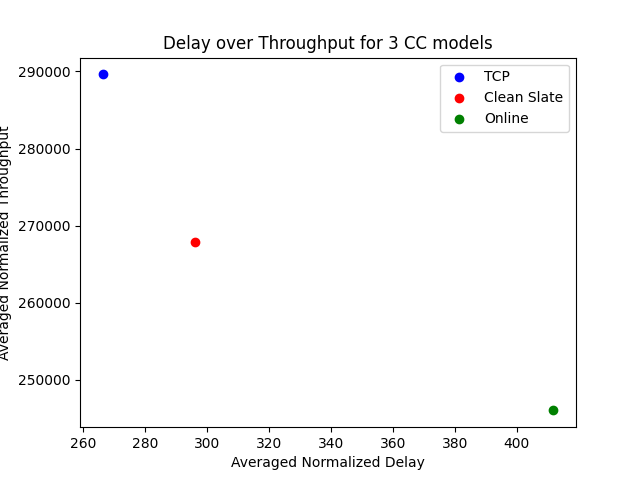
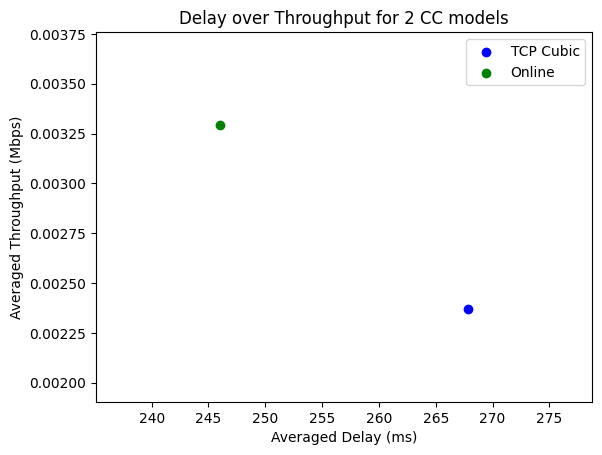
final touches

diff --git a/continuous_action_space/graph_throughputs.py b/continuous_action_space/graph_throughputs.py
@@ -21,30 +21,40 @@ with open('./data/online/rtts.pickle', 'rb') as fh:
 	online_rtts = pkl.load(fh)
 
 def avg_jagged_2d_array(arr):
-	summ = 0
-	lenn = 0
+	summ = 0.0
+	lenn = 0.0
 	for lst in arr:
 		summ += sum(lst)
 		lenn += len(lst)
 	avg = summ / lenn
 	return avg
 
-tcp_throughputs_avg = avg_jagged_2d_array(tcp_throughputs)
-tcp_rtts_avg = avg_jagged_2d_array(tcp_rtts)
+tcp_throughputs_avg = avg_jagged_2d_array(tcp_throughputs) / 125000
+tcp_rtts_avg = avg_jagged_2d_array(tcp_rtts) / 1000
 
-clean_slate_throughputs_avg = avg_jagged_2d_array(clean_slate_throughputs)
-clean_slate_rtts_avg = avg_jagged_2d_array(clean_slate_rtts)
+clean_slate_throughputs_avg = avg_jagged_2d_array(clean_slate_throughputs) / 125000
+clean_slate_rtts_avg = avg_jagged_2d_array(clean_slate_rtts) / 1000
 
-online_throughputs_avg = avg_jagged_2d_array(online_throughputs)
-online_rtts_avg = avg_jagged_2d_array(online_rtts)
+online_throughputs_avg = avg_jagged_2d_array(online_throughputs) / 125000
+online_rtts_avg = avg_jagged_2d_array(online_rtts) / 1000
+
+# tcp_throughputs_avg = np.average(tcp_throughputs[0])# / 125000
+# tcp_rtts_avg = np.average(tcp_rtts[0]) / 1000
+#
+# clean_slate_throughputs_avg = avg_jagged_2d_array(clean_slate_throughputs)# / 125000
+# clean_slate_rtts_avg = avg_jagged_2d_array(clean_slate_rtts) / 1000
+#
+# online_throughputs_avg = np.average(online_throughputs[0])# / 125000
+# online_rtts_avg = np.average(online_rtts[0]) / 1000
 
 # Averaged Normalized Throughput over Averaged Normalized Delay
 plt.clf()
-plt.scatter(tcp_throughputs_avg, tcp_rtts_avg, c='b', label='TCP Cubic')
-plt.scatter(clean_slate_throughputs_avg, clean_slate_rtts_avg, c='r', label='Clean Slate')
-plt.scatter(online_throughputs_avg, online_rtts_avg, c='g', label='Online')
-plt.xlabel('Averaged Normalized Delay')
-plt.ylabel('Averaged Normalized Throughput')
-plt.title('Delay over Throughput for 3 CC models')
+plt.scatter(tcp_rtts_avg, tcp_throughputs_avg, c='b', label='TCP Cubic')
+# plt.scatter(clean_slate_throughputs_avg, clean_slate_rtts_avg, c='r', label='Clean Slate')
+plt.scatter(online_rtts_avg, online_throughputs_avg, c='g', label='Online')
+plt.xlabel('Averaged Delay (ms)')
+plt.ylabel('Averaged Throughput (Mbps)')
+plt.title('Delay over Throughput for 2 CC models')
 plt.legend()
-plt.savefig('./graphs/throughput_delay.png')
+plt.margins(0.5)
+plt.savefig('./graphs/throughput_delay.png', bbox_inches="tight")

diff --git a/continuous_action_space/tcp.py b/continuous_action_space/tcp.py
@@ -1,0 +1,63 @@
+from py_interface import *
+import argparse
+import RL_env_setup_continuous as rlesc
+import utils
+import graph
+import pickle as pkl
+
+# Parse relevant command line arguments
+parser = argparse.ArgumentParser()
+parser.add_argument('--result', action='store_true', help='whether output figures')
+args = parser.parse_args()
+
+# Set up parameters for NN training
+MAX_EPISODES = 5
+
+exp = Experiment(1234, 4096, 'rl-tcp', '../../../')
+exp.run(show_output=0)
+
+throughputs = []  # a list of throughputs
+rtts = []
+try:
+	for i in range(MAX_EPISODES):
+		print("EPISODE: ", i)
+		exp.reset()
+		Init(1234, 4096)
+		var = Ns3AIRL(1234, rlesc.TcpRlEnv, rlesc.TcpRlAct)
+		#ns3Settings = {'error_p': 1.0}
+		pro = exp.run(show_output=False)
+		cur_throughputs = []
+		cur_rtts = []
+		while not var.isFinish():
+			with var as data:
+				if not data:
+					break
+				# these 2 are unused by our RLL algorithm but used for TCP
+				ssThresh, segmentSize = data.env.ssThresh, data.env.segmentSize
+
+				# these 5 are used by our RLL algorithm
+				cWnd, segmentsAcked, bytesInFlight, throughput, rtt = \
+				data.env.cWnd, data.env.segmentsAcked, data.env.bytesInFlight, data.env.throughput, data.env.rtt
+
+				# new_cWnd, new_ssThresh = utils.TCP(cWnd, ssThresh, segmentsAcked, segmentSize, bytesInFlight)
+
+				cur_throughputs.append(throughput)
+				if rtt > 0:
+					cur_rtts.append(rtt)
+
+				# data.act.new_cWnd = new_cWnd
+				# data.act.new_ssThresh = new_ssThresh
+		throughputs.append(cur_throughputs)
+		rtts.append(cur_rtts)
+except KeyboardInterrupt:
+	exp.kill()
+	del exp
+
+with open('./data/TCP/throughputs.pickle', 'wb') as fh:
+    pkl.dump(throughputs, fh)
+with open('./data/TCP/rtts.pickle', 'wb') as fh:
+    pkl.dump(rtts, fh)
+
+if args.result:
+	graph.graph_throughputs(throughputs)
+print('Completed episodes')

diff --git a/sim.cc b/sim.cc
@@ -79,10 +79,10 @@ main (int argc, char *argv[])
 {
   // LogComponentEnable ("Pool", LOG_LEVEL_ALL);
   uint32_t nLeaf = 1;
-  std::string transport_prot = "ns3::TcpRlTimeBased";
+  std::string transport_prot = "ns3::TcpWestwoodPlus";
   double error_p = 0.0;
-  std::string bottleneck_bandwidth = "5Mbps";
-  std::string bottleneck_delay = "2ms";
+  std::string bottleneck_bandwidth = "2Mbps";
+  std::string bottleneck_delay = "5ms";
   std::string access_bandwidth = "20Mbps";
   std::string access_delay = "20ms";
   std::string prefix_file_name = "TcpVariantsComparison";
